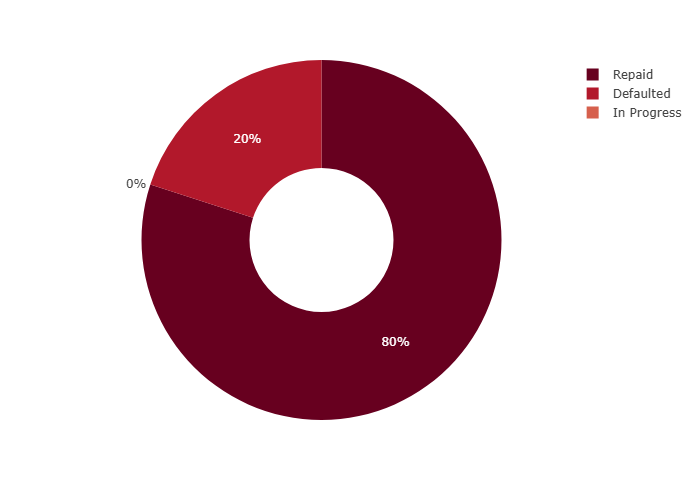
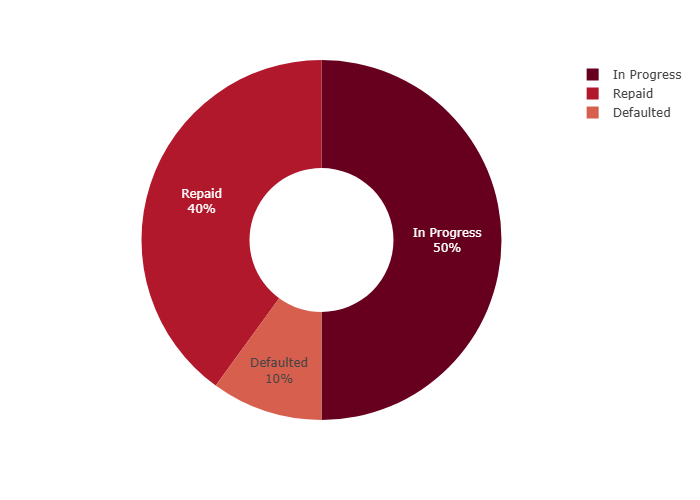
v2.1-UI+PDF REPORT (Chart Bug fixed)

diff --git a/src/reporting.py b/src/reporting.py
@@ -1,27 +1,24 @@
+from reportlab.lib.pagesizes import A4
+from reportlab.lib.styles import getSampleStyleSheet, ParagraphStyle
+from reportlab.lib.enums import TA_LEFT, TA_CENTER
 from reportlab.platypus import (
     SimpleDocTemplate,
     Paragraph,
     Spacer,
+    Image,
     Table,
-    TableStyle,
-    Image
+    TableStyle
 )
-from reportlab.lib.pagesizes import A4
-from reportlab.lib.styles import getSampleStyleSheet
 from reportlab.lib import colors
 from datetime import datetime
-import os
 
 
 class DecisionReportGenerator:
-    def generate(
-        self,
-        output_path,
-        application_data,
-        result_summary,
-        chart_path
-    ):
-        styles = getSampleStyleSheet()
+    """
+    Generates an audit-ready, similarity-based credit decision report.
+    """
+
+    def generate(self, output_path, application_data, result_summary, chart_path=None):
         doc = SimpleDocTemplate(
             output_path,
             pagesize=A4,
@@ -31,114 +28,192 @@ class DecisionReportGenerator:
             bottomMargin=36
         )
 
-        elements = []
+        styles = getSampleStyleSheet()
+        story = []
 
         # ===============================
-        # TITLE
+        # CUSTOM STYLES
         # ===============================
-        elements.append(Paragraph(
-            "<b>Credit Decision Memory – Similarity-Based Assessment</b>",
-            styles["Title"]
-        ))
-        elements.append(Spacer(1, 12))
+        title_style = ParagraphStyle(
+            "Title",
+            parent=styles["Title"],
+            alignment=TA_CENTER,
+            fontSize=18,
+            spaceAfter=20
+        )
 
-        elements.append(Paragraph(
-            f"<b>Date:</b> {datetime.today().strftime('%d %B %Y')}",
-            styles["Normal"]
-        ))
-        elements.append(Paragraph(
-            "<b>Team:</b> Weavers",
-            styles["Normal"]
-        ))
-        elements.append(Spacer(1, 20))
+        header_style = ParagraphStyle(
+            "Header",
+            parent=styles["Heading2"],
+            spaceBefore=16,
+            spaceAfter=10
+        )
+
+        body_style = ParagraphStyle(
+            "Body",
+            parent=styles["BodyText"],
+            spaceAfter=10
+        )
+
+        subtle_style = ParagraphStyle(
+            "Subtle",
+            parent=styles["BodyText"],
+            textColor=colors.grey,
+            fontSize=9
+        )
 
         # ===============================
-        # APPLICATION SUMMARY
+        # TITLE PAGE HEADER
         # ===============================
-        elements.append(Paragraph(
-            "<b>1. Loan Application Overview</b>",
-            styles["Heading2"]
+        story.append(Paragraph("Credit Decision Memory Report", title_style))
+        story.append(Paragraph(
+            f"Generated on {datetime.now().strftime('%Y-%m-%d %H:%M')}",
+            subtle_style
         ))
-        elements.append(Spacer(1, 8))
+        story.append(Spacer(1, 20))
 
-        app_table = Table([
-            ["Monthly Income", f"${application_data['monthly_income']:.0f}"],
-            ["Loan Amount Requested", f"${application_data['loan_amount_requested']:.0f}"],
-            ["Loan Tenure (months)", application_data["loan_tenure_months"]],
+        # ===============================
+        # EXECUTIVE SUMMARY
+        # ===============================
+        story.append(Paragraph("Executive Summary", header_style))
+        story.append(Paragraph(
+            "This report provides similarity-based decision support for a newly submitted loan "
+            "application. The system does not automate approval or rejection. Instead, it retrieves "
+            "historical loan cases with comparable characteristics and summarizes their observed "
+            "outcomes to assist human decision-makers.",
+            body_style
+        ))
+
+        # ===============================
+        # APPLICATION SNAPSHOT
+        # ===============================
+        story.append(Paragraph("Application Snapshot", header_style))
+
+        app_table_data = [
+            ["Attribute", "Value"],
+            ["Monthly Income", f"${application_data['monthly_income']:,}"],
+            ["Existing Monthly EMIs", f"${application_data['existing_emis_monthly']:,}"],
+            ["Debt-to-Income Ratio", f"{application_data['debt_to_income_ratio']:.2f}"],
+            ["Loan Amount Requested", f"${application_data['loan_amount_requested']:,}"],
+            ["Loan Tenure (Months)", application_data["loan_tenure_months"]],
             ["Credit Score", application_data["cibil_score"]],
-            ["Loan Purpose", application_data["purpose_of_loan"]],
-        ], colWidths=[220, 250])
+            ["Applicant Age", application_data["applicant_age"]],
+            ["Number of Dependents", application_data["number_of_dependents"]],
+            ["Employment Status", application_data["employment_status"]],
+            ["Property Ownership", application_data["property_ownership_status"]],
+            ["Loan Type", application_data["loan_type"]],
+            ["Purpose of Loan", application_data["purpose_of_loan"]],
+        ]
 
+        app_table = Table(app_table_data, colWidths=[200, 300])
         app_table.setStyle(TableStyle([
+            ("BACKGROUND", (0, 0), (-1, 0), colors.lightgrey),
             ("GRID", (0, 0), (-1, -1), 0.5, colors.grey),
-            ("BACKGROUND", (0, 0), (-1, 0), colors.whitesmoke),
+            ("FONT", (0, 0), (-1, 0), "Helvetica-Bold"),
+            ("BOTTOMPADDING", (0, 0), (-1, -1), 6),
+            ("TOPPADDING", (0, 0), (-1, -1), 6),
         ]))
 
-        elements.append(app_table)
-        elements.append(Spacer(1, 20))
+        story.append(app_table)
 
         # ===============================
-        # SIMILARITY FINDINGS
+        # SIMILARITY METHODOLOGY
         # ===============================
-        elements.append(Paragraph(
-            "<b>2. Similarity-Based Evidence</b>",
-            styles["Heading2"]
+        story.append(Spacer(1, 16))
+        story.append(Paragraph("Similarity Methodology", header_style))
+        story.append(Paragraph(
+            "Historical loan cases were retrieved based on vector similarity across multiple "
+            "financial and contextual attributes, including income level, loan amount, credit score, "
+            "loan tenure, employment status, property ownership, and loan purpose.",
+            body_style
         ))
-        elements.append(Spacer(1, 8))
-
-        elements.append(Paragraph(
-            f"The system retrieved <b>{result_summary['total_cases']}</b> historical loan cases "
-            f"with similar financial characteristics (income, loan size, credit score, and purpose). "
-            f"This analysis relies on historical outcomes rather than predictive modeling.",
-            styles["Normal"]
-        ))
-        elements.append(Spacer(1, 12))
-
-        # ===============================
-        # OUTCOME TABLE
-        # ===============================
-        outcome_table = Table([
-            ["Outcome", "Percentage of Similar Cases"],
-            ["Repaid", f"{result_summary['repaid_pct']:.1f}%"],
-            ["Defaulted", f"{result_summary['defaulted_pct']:.1f}%"],
-            ["In Progress", f"{result_summary['in_progress_pct']:.1f}%"],
-        ], colWidths=[220, 250])
-
-        outcome_table.setStyle(TableStyle([
-            ("GRID", (0, 0), (-1, -1), 0.5, colors.grey),
-            ("BACKGROUND", (0, 0), (-1, 0), colors.whitesmoke),
-        ]))
-
-        elements.append(outcome_table)
-        elements.append(Spacer(1, 20))
-
-        # ===============================
-        # CHART IMAGE
-        # ===============================
-        if os.path.exists(chart_path):
-            elements.append(Paragraph(
-                "<b>3. Outcome Distribution Visualization</b>",
-                styles["Heading2"]
-            ))
-            elements.append(Spacer(1, 8))
-            elements.append(Image(chart_path, width=350, height=350))
-            elements.append(Spacer(1, 20))
-
-        # ===============================
-        # INTERPRETATION
-        # ===============================
-        elements.append(Paragraph(
-            "<b>4. Interpretation & Decision Support</b>",
-            styles["Heading2"]
-        ))
-        elements.append(Spacer(1, 8))
-
-        elements.append(Paragraph(
-            "A higher proportion of repaid loans among similar historical cases suggests "
-            "lower observed repayment risk. Conversely, elevated default or fraud presence "
-            "indicates increased caution. This report is intended to support human decision-making "
-            "and does not automate approval or rejection.",
-            styles["Normal"]
+        story.append(Paragraph(
+            "This approach ensures that comparisons are made against economically and behaviorally "
+            "comparable cases rather than relying on abstract predictive scores.",
+            body_style
         ))
 
-        doc.build(elements)
+        # ===============================
+        # HISTORICAL OUTCOME ANALYSIS
+        # ===============================
+        story.append(Paragraph("Historical Outcome Analysis", header_style))
+
+        total = result_summary["total_cases"]
+        repaid = result_summary["repaid_pct"]
+        defaulted = result_summary["defaulted_pct"]
+        in_progress = result_summary["in_progress_pct"]
+        fraud = result_summary["fraud_cases"]
+
+        story.append(Paragraph(
+            f"The system identified {total} historical loan cases with similar characteristics. "
+            f"Among these cases, {repaid:.1f}% were successfully repaid, "
+            f"{defaulted:.1f}% resulted in default, and "
+            f"{in_progress:.1f}% are still in progress. "
+            f"{fraud} cases were associated with confirmed fraud signals.",
+            body_style
+        ))
+
+        # ===============================
+        # EMBED CHART
+        # ===============================
+        if chart_path:
+            story.append(Spacer(1, 12))
+            story.append(Image(chart_path, width=300, height=300))
+
+        # ===============================
+        # RISK & POSITIVE SIGNALS
+        # ===============================
+        story.append(Paragraph("Observed Risk and Positive Signals", header_style))
+
+        risk_signals = []
+        positive_signals = []
+
+        if defaulted > 50:
+            risk_signals.append("High default rate among similar historical cases.")
+        if fraud > 0:
+            risk_signals.append("Presence of fraud cases in the similarity set.")
+        if application_data["debt_to_income_ratio"] > 0.4:
+            risk_signals.append("Elevated debt-to-income ratio compared to peer cases.")
+
+        if application_data["cibil_score"] >= 750:
+            positive_signals.append("Strong credit score relative to similar applicants.")
+        if application_data["property_ownership_status"] == "Owned":
+            positive_signals.append("Property ownership associated with improved repayment resilience.")
+        if repaid > defaulted:
+            positive_signals.append("Majority of similar cases resulted in successful repayment.")
+
+        story.append(Paragraph("<b>Risk Signals</b>", body_style))
+        for r in risk_signals or ["No dominant risk signals identified."]:
+            story.append(Paragraph(f"- {r}", body_style))
+
+        story.append(Spacer(1, 8))
+        story.append(Paragraph("<b>Positive Signals</b>", body_style))
+        for p in positive_signals or ["No strong positive signals identified."]:
+            story.append(Paragraph(f"- {p}", body_style))
+
+        # ===============================
+        # DECISION SUPPORT STATEMENT
+        # ===============================
+        story.append(Paragraph("Decision Support Statement", header_style))
+        story.append(Paragraph(
+            "This similarity-based assessment suggests how comparable loans have historically "
+            "performed under similar conditions. It is intended to support, not replace, human "
+            "judgment. Final credit decisions should incorporate institutional policies, regulatory "
+            "requirements, and current economic context.",
+            body_style
+        ))
+
+        # ===============================
+        # DISCLAIMER
+        # ===============================
+        story.append(Spacer(1, 16))
+        story.append(Paragraph(
+            "Disclaimer: This report is generated using historical similarity analysis and does not "
+            "constitute a predictive credit score or automated decision.",
+            subtle_style
+        ))
+
+        # ===============================
+        # BUILD DOCUMENT
+        # ===============================
+        doc.build(story)

diff --git a/src/ui_app.py b/src/ui_app.py
@@ -3,10 +3,9 @@ import pandas as pd
 import plotly.express as px
 from similarity_engine import find_similar_loans
 from reporting import DecisionReportGenerator
-import os
 
 # ===============================
-# SESSION STATE INITIALIZATION
+# SESSION STATE
 # ===============================
 if "analysis_result" not in st.session_state:
     st.session_state.analysis_result = None
@@ -117,7 +116,6 @@ if analyze_btn or st.session_state.analysis_result is not None:
             st.session_state.analysis_result = find_similar_loans(application_data, k=10)
             st.session_state.application_data = application_data
 
-    # Always read from session state
     result = st.session_state.analysis_result
     application_data = st.session_state.application_data
 
@@ -164,24 +162,35 @@ if analyze_btn or st.session_state.analysis_result is not None:
     # ===============================
     col_chart, col_table = st.columns(2)
 
+    # ---- FIXED PIE CHART LOGIC ----
     with col_chart:
         st.subheader("Outcome Distribution")
+
+        outcome_counts = {"Repaid": 0, "Defaulted": 0, "In Progress": 0}
+
+        for case in result["cases"]:
+            outcome = case.get("loan_outcome")
+            if outcome == "Repaid":
+                outcome_counts["Repaid"] += 1
+            elif outcome == "Defaulted":
+                outcome_counts["Defaulted"] += 1
+            else:
+                outcome_counts["In Progress"] += 1
+
         outcome_df = pd.DataFrame({
-            "Outcome": ["Repaid", "Defaulted", "In Progress"],
-            "Percentage": [
-                repaid_pct,
-                defaulted_pct,
-                result["in_progress_pct"]
-            ]
+            "Outcome": list(outcome_counts.keys()),
+            "Count": list(outcome_counts.values())
         })
 
         fig = px.pie(
             outcome_df,
-            values="Percentage",
+            values="Count",
             names="Outcome",
             hole=0.4,
             color_discrete_sequence=px.colors.sequential.RdBu
         )
+
+        fig.update_traces(textinfo="percent+label")
 
         st.plotly_chart(fig, use_container_width=True)
 
